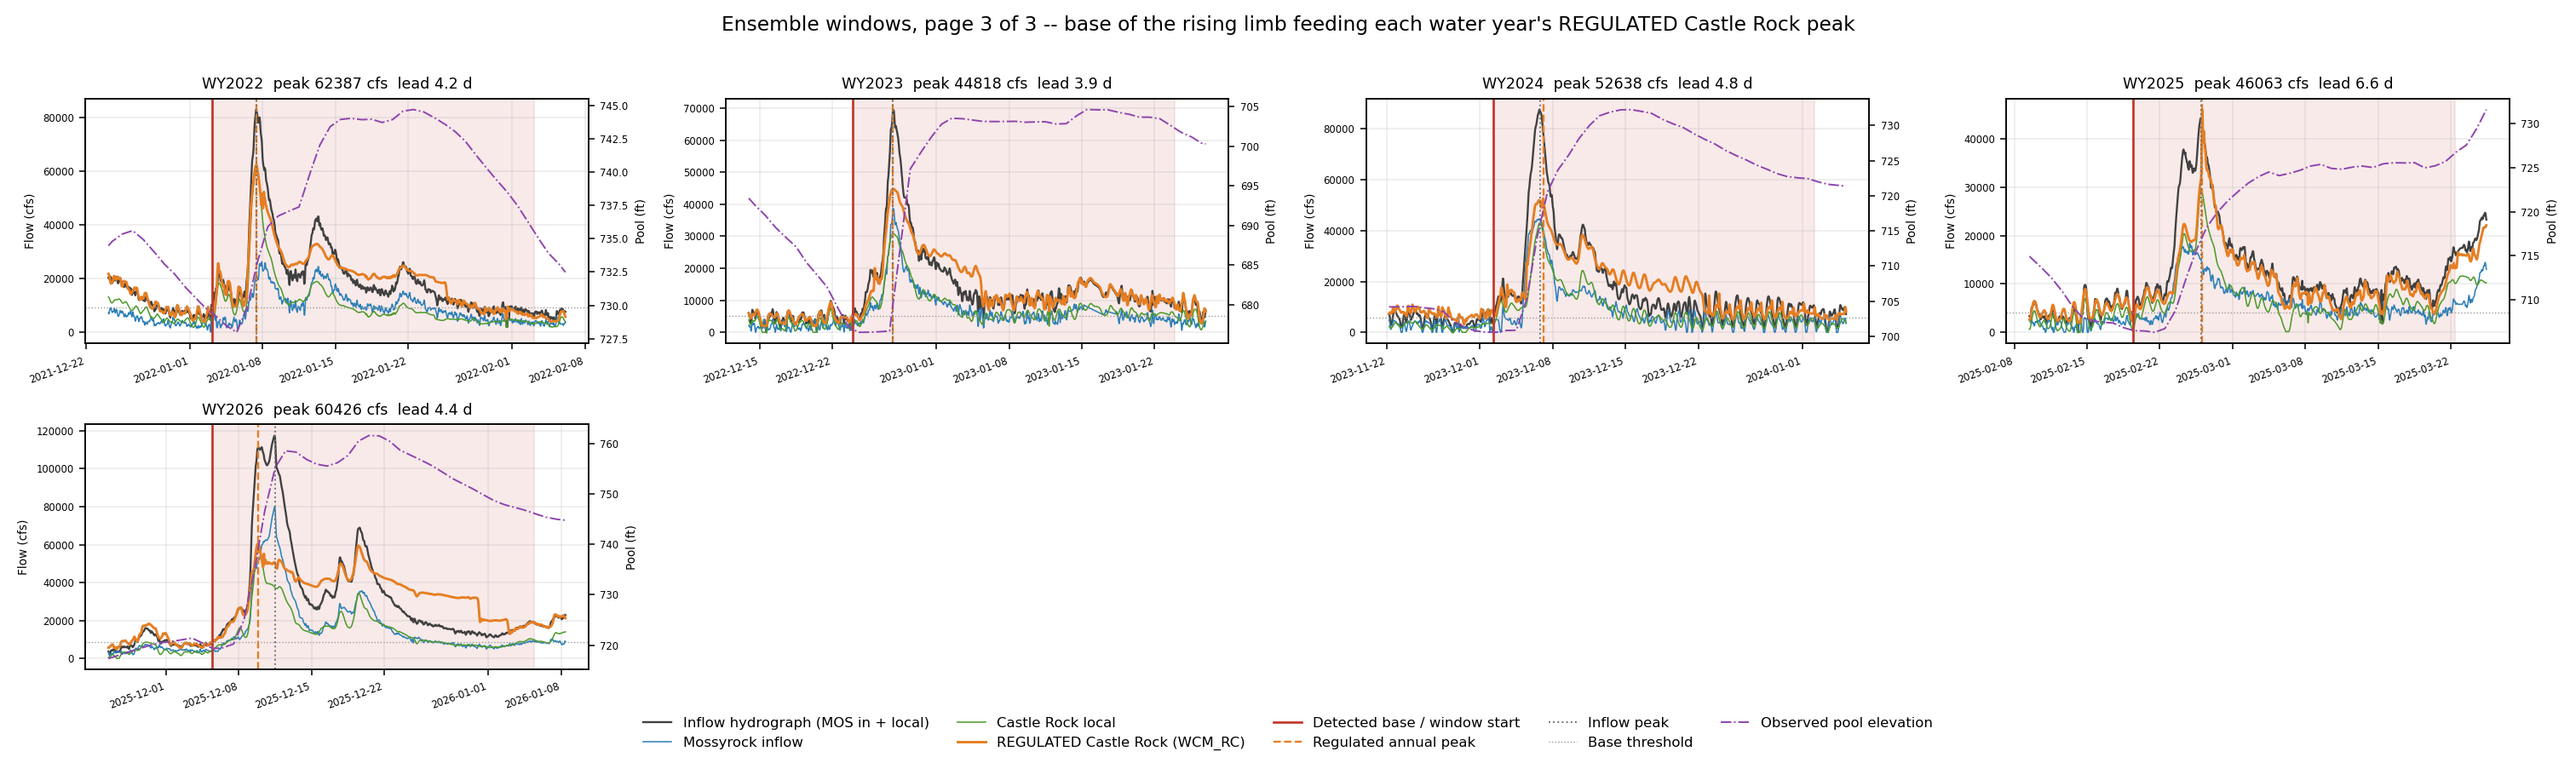
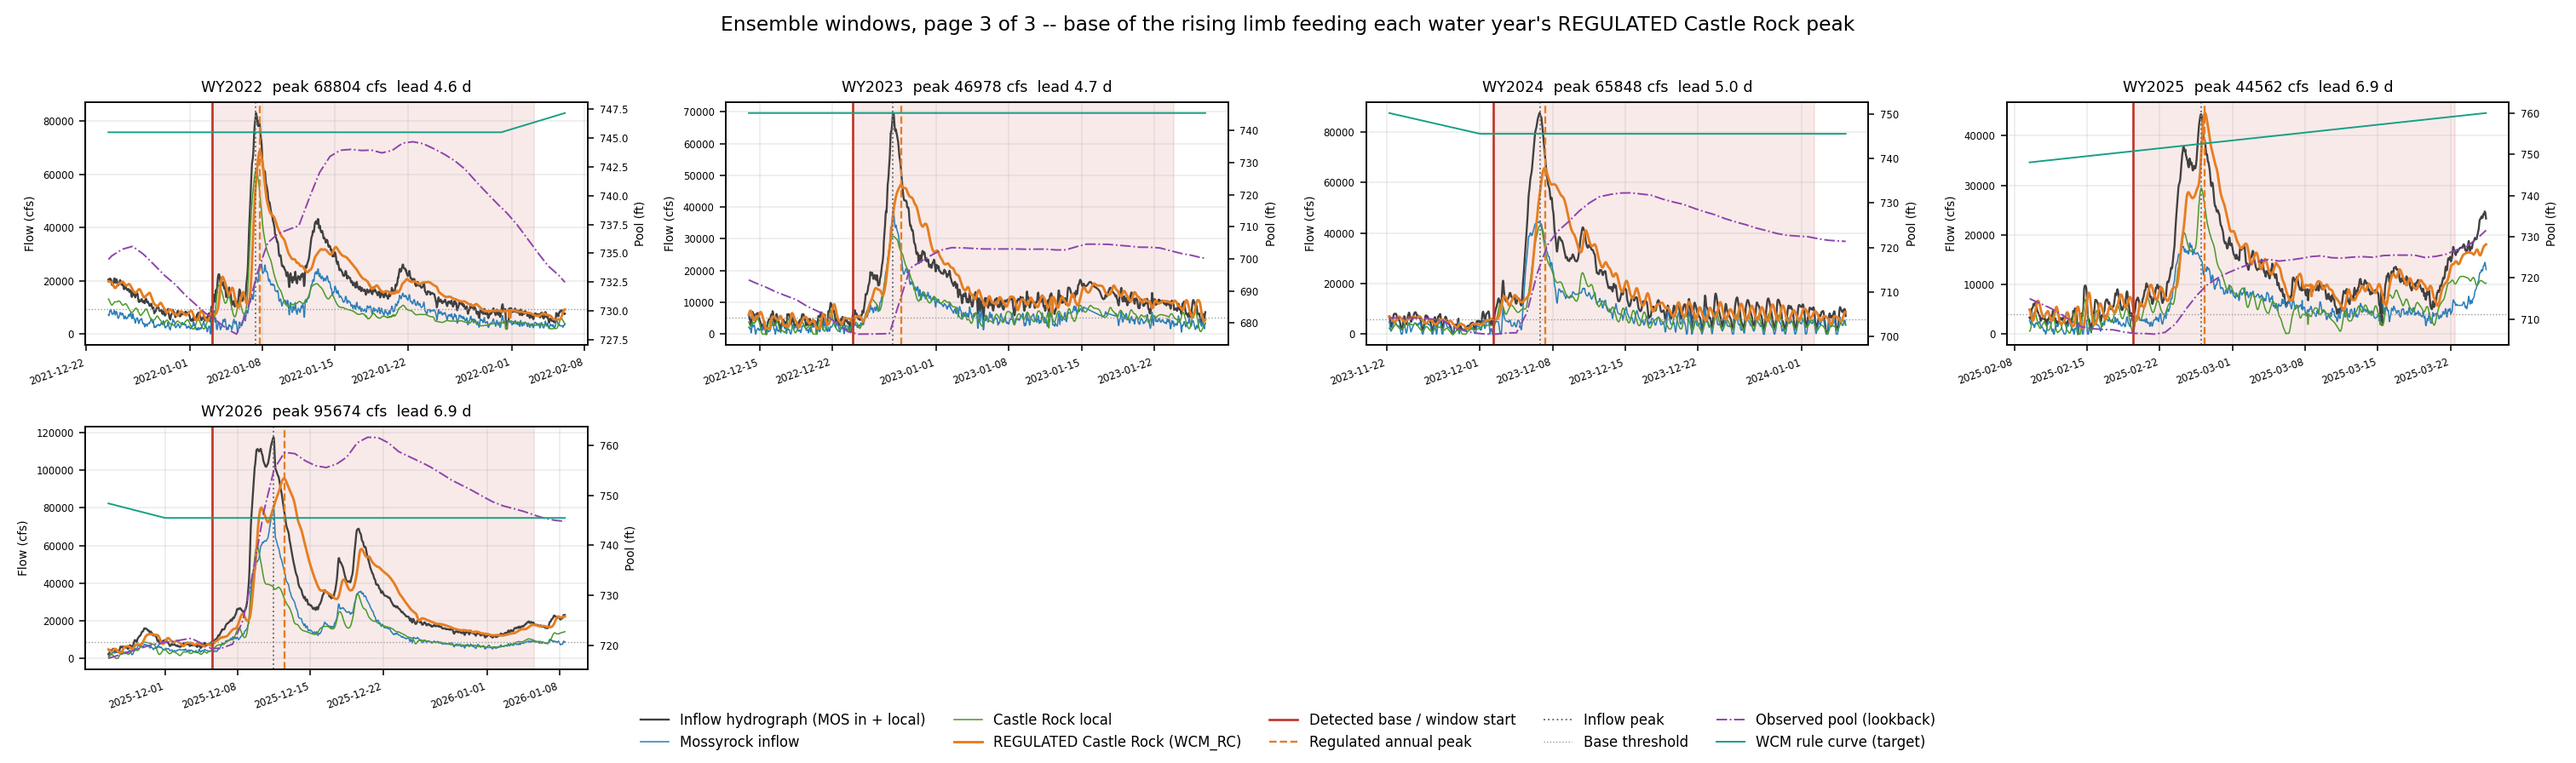
Obs_RC: add the WCM rule curve as a seasonal target record
The sim uses the observed pool as a lookback but still needs the WCM rule curve
as the seasonal target. Written as /MOS/ELEV-RULECURVE/ per member, same anchors
as the WCM_RC ensemble, evaluated on each member's REAL dates and written on the
ensemble calendar so it lines up with the flows and the observed pool. Spans the
same window as the elevation record, so shifting the simulation start keeps both
defined.

Mapping CSV gains start_rulecurve_ft and start_pool_minus_rc_ft.

diff --git a/CAS_Reg_Unreg/src/#Create_ObsRC_Ensembles.py b/CAS_Reg_Unreg/src/#Create_ObsRC_Ensembles.py
@@ -124,6 +124,21 @@ ELEV_EXTENT = "full"
 # The observed pool record starts 02 Oct 1973, so earlier water years have no
 # starting elevation and cannot be part of this run. Members whose window has no
 # observed pool at the start are skipped and listed.
+# WCM rule curve, written alongside the observed pool as the seasonal TARGET.
+# Same anchors as #Create_wcmRC_Ensembles.py -- (month, day, elevation), linear
+# between anchors, wrapping Dec -> Jan. Evaluated on each member's REAL dates,
+# then written on the ensemble calendar so it lines up with everything else.
+WRITE_RULE_CURVE = True
+RULE_CURVE_ANCHORS = [
+    (1, 1, 745.5),
+    (1, 31, 745.5),
+    (6, 1, 778.5),
+    (9, 30, 778.5),
+    (12, 1, 745.5),
+]
+RULE_CURVE_PART_B = "MOS"
+RULE_CURVE_PART_C = "ELEV-RULECURVE"
+
 REQUIRE_START_ELEVATION = True
 MAX_ELEV_MISSING_HOURS = 72     # tolerate short gaps inside the window
 CLIP_NEGATIVE_FLOW = True
@@ -195,6 +210,30 @@ def daily_to_hourly(daily, how):
     return anchored.reindex(anchored.index.union(hourly_index)) \
                    .interpolate(method="time") \
                    .reindex(hourly_index)
+
+
+def rule_curve_on_index(index):
+    """Seasonal WCM rule curve for a DatetimeIndex, linear between anchors.
+
+    Anchors are repeated for every calendar year the index spans (plus one on
+    each side) so the Dec -> Jan segment wraps. Interpolating on real timestamps
+    handles leap years for free.
+
+    Interpolate on float HOURS from a fixed epoch. Do NOT mix Index.asi8 with
+    Timestamp.value -- pandas 3 returns microseconds from asi8 and nanoseconds
+    from .value, and the 1000x mismatch silently flattens the curve.
+    """
+    epoch = pd.Timestamp(1900, 1, 1)
+    knots = []
+    for year in range(int(index.year.min()) - 1, int(index.year.max()) + 2):
+        for month, day, elev in RULE_CURVE_ANCHORS:
+            hours = (pd.Timestamp(year, month, day) - epoch) / pd.Timedelta(hours=1)
+            knots.append((hours, float(elev)))
+    knots.sort()
+    kt = np.array([k[0] for k in knots], dtype=float)
+    kv = np.array([k[1] for k in knots], dtype=float)
+    x = (index - epoch) / pd.Timedelta(hours=1)
+    return np.interp(np.asarray(x, dtype=float), kt, kv)
 
 
 def water_year(stamp):
@@ -356,6 +395,9 @@ def plot_windows(events, peak_series, limb, mos, cas, elev_hourly, stem):
             ax2 = ax.twinx()
             ev_elev = elev_hourly.loc[view_a:view_b]
             ax2.plot(ev_elev.index, ev_elev.values, color="#8e44ad", lw=1.0, ls="-.")
+            if WRITE_RULE_CURVE and len(ev_elev):
+                ax2.plot(ev_elev.index, rule_curve_on_index(ev_elev.index),
+                         color="#16a085", lw=1.0)
             ax2.set_ylabel("Pool (ft)", fontsize=7)
             ax2.tick_params(labelsize=6)
 
@@ -368,7 +410,8 @@ def plot_windows(events, peak_series, limb, mos, cas, elev_hourly, stem):
             Line2D([], [], color="#e67e22", lw=1.2, ls="--", label="Regulated annual peak"),
             Line2D([], [], color="0.45", lw=1.0, ls=":", label="Inflow peak"),
             Line2D([], [], color="0.6", lw=0.7, ls=":", label="Base threshold"),
-            Line2D([], [], color="#8e44ad", lw=1.0, ls="-.", label="Observed pool elevation"),
+            Line2D([], [], color="#8e44ad", lw=1.0, ls="-.", label="Observed pool (lookback)"),
+            Line2D([], [], color="#16a085", lw=1.0, label="WCM rule curve (target)"),
         ]
         fig.legend(handles=handles, loc="lower center", ncol=5, fontsize=8.5,
                    frameon=False)
@@ -470,6 +513,10 @@ def main():
     print("Elevation     : observed daily pool -> hourly (%s), %d day lookback, "
           "extent=%s (%d hours)"
           % (ELEV_DAILY_TO_HOURLY, LOOKBACK_DAYS, ELEV_EXTENT, elev_hours))
+    print("Rule curve    : %s" % ("WCM seasonal target written as /%s/%s/, same span "
+                                  "as the elevation record"
+                                  % (RULE_CURVE_PART_B, RULE_CURVE_PART_C)
+                                  if WRITE_RULE_CURVE else "not written"))
     print("Flow D-part   : %s" % flow_d)
     print("Elev D-part   : %s" % elev_d)
     print("Peak timing   : %s" % peak_source)
@@ -527,13 +574,18 @@ def main():
             f_part = "C:%06d|" % member
             mos_v, _, _ = slice_window(mos, base, n_hours)
             cas_v, _, _ = slice_window(cas, base, n_hours)
-            elev_v, _, _ = slice_window(elev_hourly,
-                                        base - pd.Timedelta(days=LOOKBACK_DAYS),
-                                        elev_hours)
-            for parts, vals, units, dpart, wstart in [
-                    (("", "MOSSYROCK", "FLOW-IN"), mos_v, "CFS", flow_d, flow_write_start),
-                    (("", "CASTLE ROCK", "FLOW-LOCAL"), cas_v, "CFS", flow_d, flow_write_start),
-                    (("", "MOS", "ELEV"), elev_v, "FEET", elev_d, elev_write_start)]:
+            elev_v, _, elev_idx = slice_window(elev_hourly,
+                                               base - pd.Timedelta(days=LOOKBACK_DAYS),
+                                               elev_hours)
+            series = [(("", "MOSSYROCK", "FLOW-IN"), mos_v, "CFS", flow_d, flow_write_start),
+                      (("", "CASTLE ROCK", "FLOW-LOCAL"), cas_v, "CFS", flow_d, flow_write_start),
+                      (("", "MOS", "ELEV"), elev_v, "FEET", elev_d, elev_write_start)]
+            if WRITE_RULE_CURVE:
+                # evaluated on the member's REAL dates, written on the ensemble calendar
+                rc_v = rule_curve_on_index(elev_idx)
+                series.append((("", RULE_CURVE_PART_B, RULE_CURVE_PART_C), rc_v,
+                               "FEET", elev_d, elev_write_start))
+            for parts, vals, units, dpart, wstart in series:
                 pathname = "/%s/%s/%s/%s/1HOUR/%s/" % (parts[0], parts[1], parts[2],
                                                        dpart, f_part)
                 dst.put_ts(build_container(pathname, to_dss_values(vals), wstart,
@@ -548,7 +600,12 @@ def main():
                 "elev_ensemble_start": elev_ens_start, "elev_hours": elev_hours,
                 "peak_time": ev["peak_time"], "peak_cfs": round(ev["peak_cfs"], 1),
                 "lead_hours": ev["lead_hours"], "clamped": ev["clamped"],
-                "start_pool_ft": ev["start_pool_ft"]})
+                "start_pool_ft": ev["start_pool_ft"],
+                "start_rulecurve_ft": round(float(
+                    rule_curve_on_index(pd.DatetimeIndex([base]))[0]), 2),
+                "start_pool_minus_rc_ft": round(
+                    ev["start_pool_ft"]
+                    - float(rule_curve_on_index(pd.DatetimeIndex([base]))[0]), 2)})
 
     mapping = pd.DataFrame(mapping_rows)
     mapping.to_csv(MAPPING_CSV, index=False)
@@ -560,7 +617,9 @@ def main():
     plot_overview(events, PLOT_STEM)
 
     clamped = diag[diag["clamped"] != "none"]
-    print("Members written : %d   records: %d" % (len(events), len(events) * 3))
+    per_member = 3 + (1 if WRITE_RULE_CURVE else 0)
+    print("Members written : %d   records: %d (%d per member)"
+          % (len(events), len(events) * per_member, per_member))
     print("Mapping CSV     : %s" % MAPPING_CSV)
     print("Editable starts : %s  (copy to %s to override)"
           % (AUTO_STARTS_CSV, MANUAL_STARTS_CSV))
@@ -570,6 +629,12 @@ def main():
     pool = mapping["start_pool_ft"]
     print("Starting pool at event onset: median %.1f ft, min %.1f ft, max %.1f ft"
           % (pool.median(), pool.min(), pool.max()))
+    if WRITE_RULE_CURVE:
+        d = mapping["start_pool_minus_rc_ft"]
+        print("Observed pool vs rule curve at event onset: median %+.1f ft, "
+              "range %+.1f to %+.1f" % (d.median(), d.min(), d.max()))
+        print("   members starting BELOW the rule curve: %d of %d"
+              % (int((d < 0).sum()), len(d)))
     print("Lead time base->peak: median %.1f d, min %.1f d, max %.1f d"
           % (diag["lead_hours"].median() / 24.0, diag["lead_hours"].min() / 24.0,
              diag["lead_hours"].max() / 24.0))
